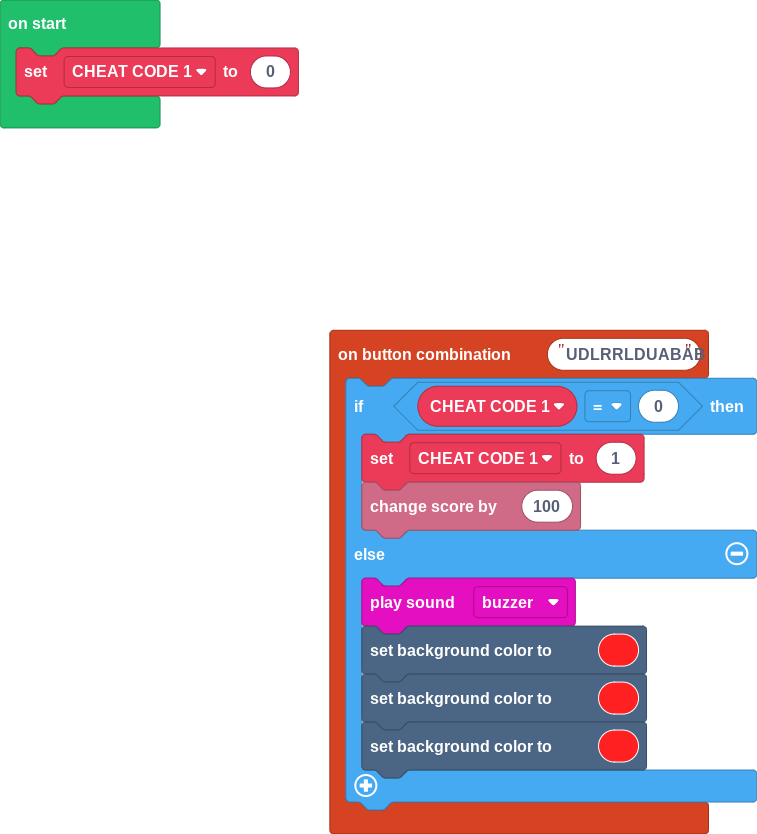
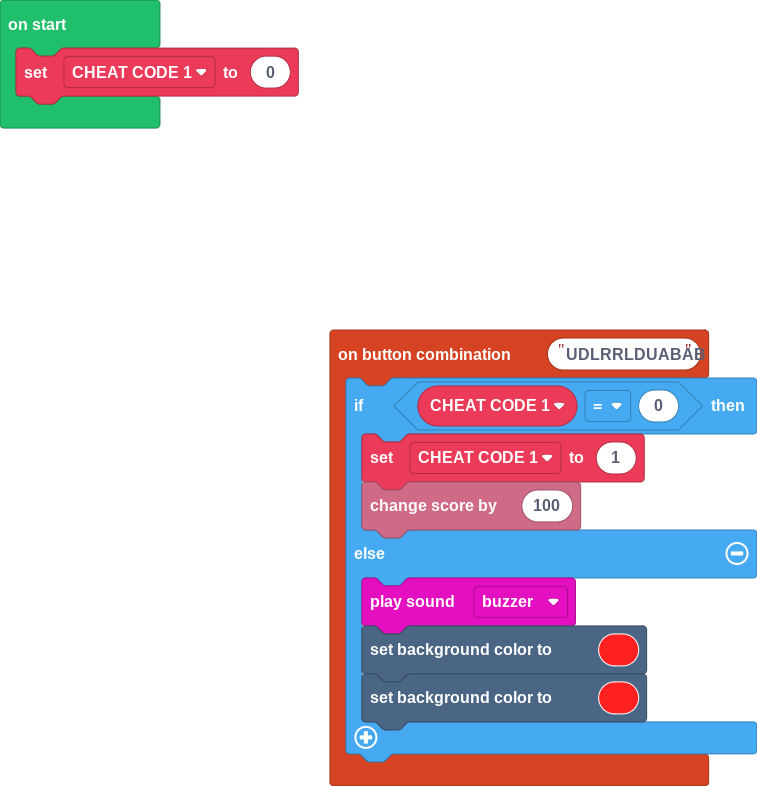
Update main.blocks, main.ts

Changed region(s): [[0.4254, 0.3969, 1.0, 0.9771], [0.0, 0.0, 0.395, 0.1832]]

diff --git a/main.ts b/main.ts
@@ -6,7 +6,6 @@ controller.combos.attachCombo("UDLRRLDUABAB", function () {
         music.buzzer.play()
         scene.setBackgroundColor(2)
         scene.setBackgroundColor(2)
-        scene.setBackgroundColor(2)
     }
 })
 let CHEAT_CODE_1 = 0
